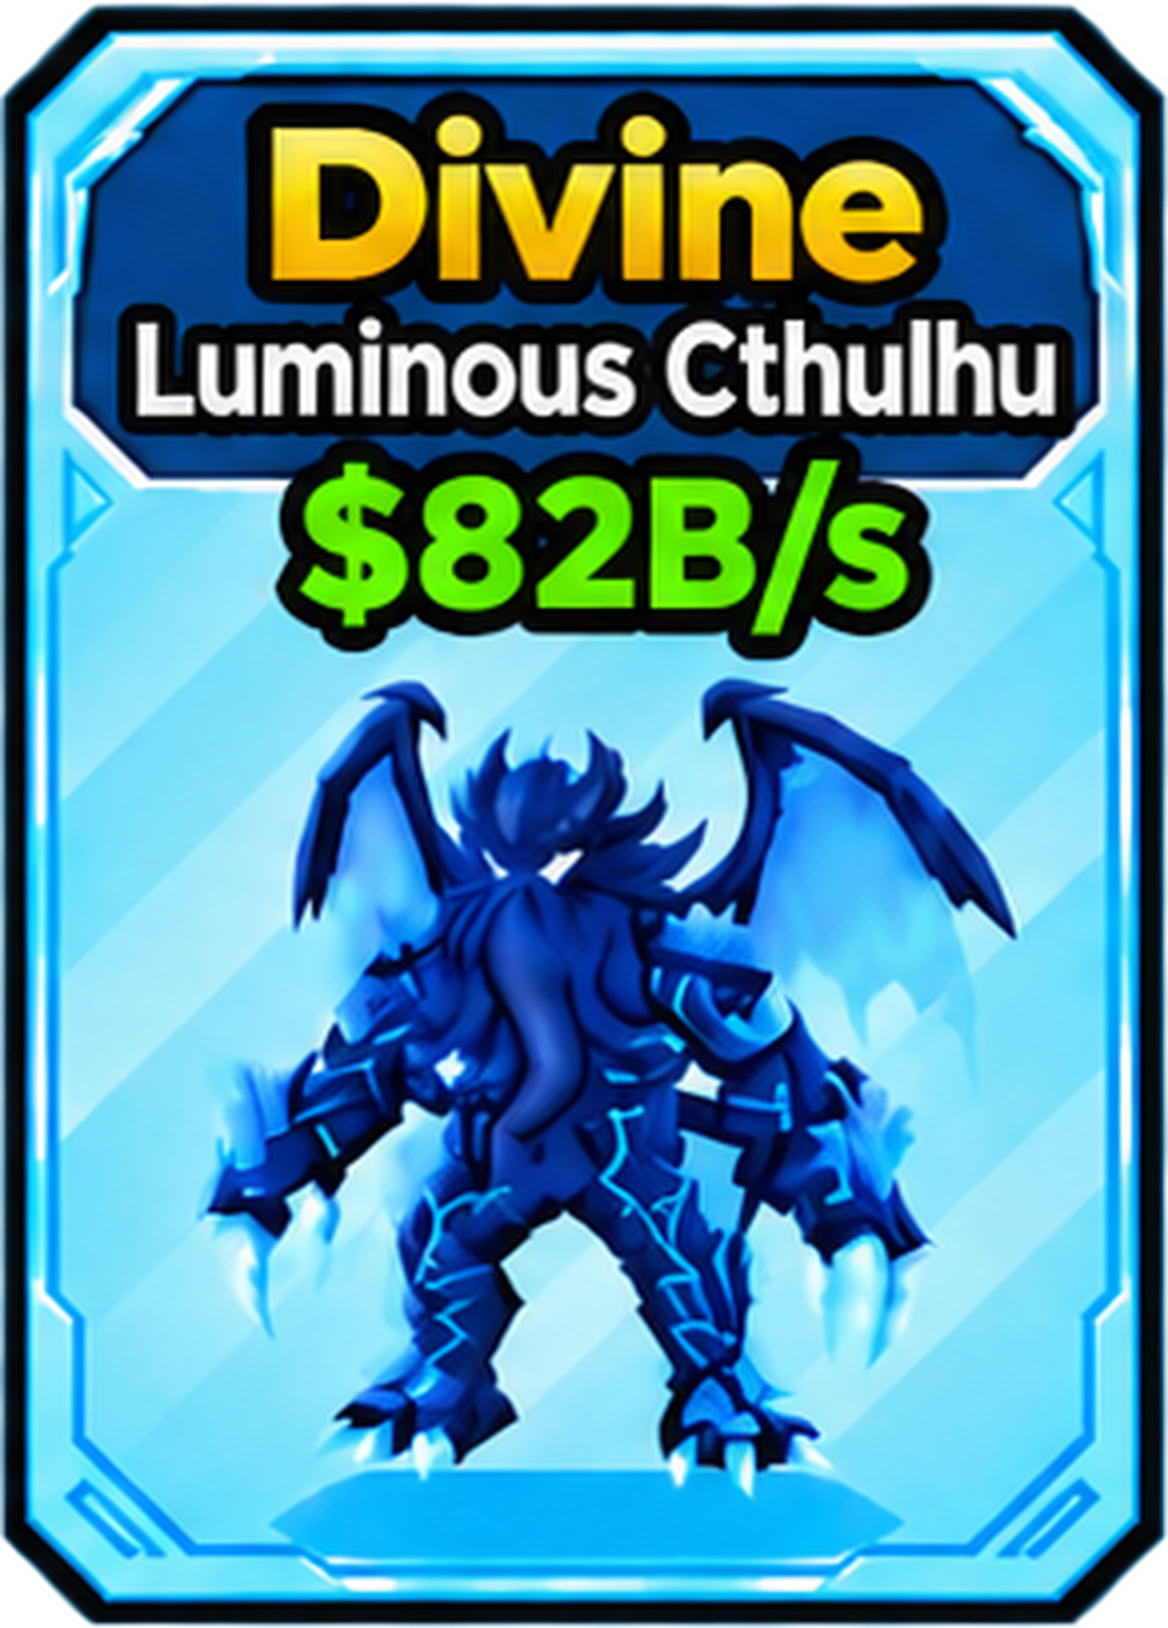
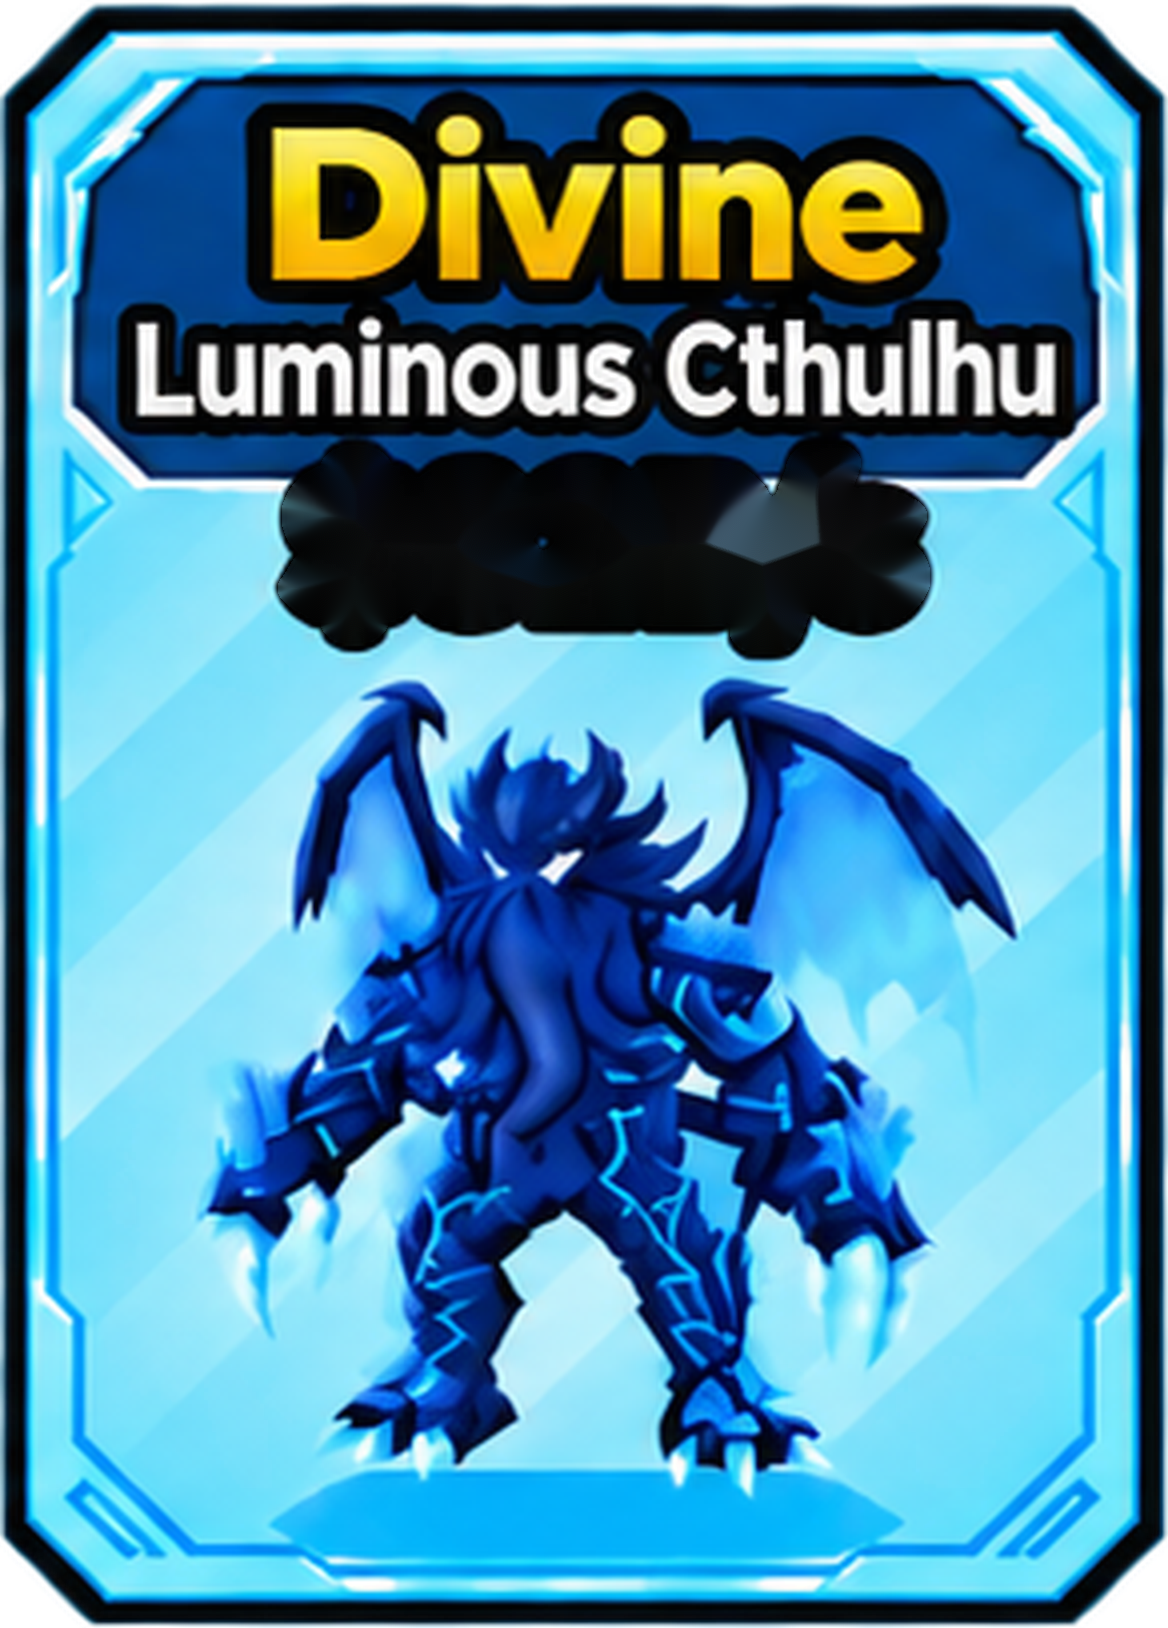
nnn

Changed region(s): [[0.2158, 0.2764, 0.8014, 0.3993]]

diff --git a/index.html b/index.html
@@ -4,7 +4,7 @@
 <meta charset="utf-8">
 <meta name="viewport" content="width=device-width,initial-scale=1">
 <meta http-equiv="Cache-Control" content="no-cache, no-store, must-revalidate">
-<title>Steal An Egg Overlay V5.22 TEXT ERASER</title>
+<title>Steal An Egg Overlay V5.23 TEXT ONLY PATCH</title>
 <style>
 *{box-sizing:border-box}
 html,body{margin:0;width:100%;height:100%;background:transparent!important;overflow:hidden}
@@ -146,36 +146,6 @@ body{font-family:Arial,Helvetica,sans-serif}
 }
 /* Chỉ che dòng tiền CŨ trên giao diện. File PNG gốc không bị chỉnh sửa. */
 .price-cover{display:none!important;}
-
-.price-eraser{
-  position:absolute;
-  left:2.1%;
-  right:2.1%;
-  top:24.7%;
-  height:14.6%;
-  z-index:30;
-  display:flex;
-  align-items:center;
-  justify-content:center;
-  overflow:visible;
-  color:#9FE8F7;
-  font-family:"Arial Black","DejaVu Sans",Arial,sans-serif;
-  font-weight:1000;
-  font-size:16.8cqw;
-  line-height:.94;
-  letter-spacing:-.055em;
-  white-space:nowrap;
-  -webkit-text-stroke:1.15cqw #9FE8F7;
-  paint-order:stroke fill;
-  text-shadow:
-    0 0 0 #9FE8F7,
-    .20cqw 0 0 #9FE8F7,
-    -.20cqw 0 0 #9FE8F7,
-    0 .20cqw 0 #9FE8F7,
-    0 -.20cqw 0 #9FE8F7;
-  pointer-events:none;
-}
-
 .price-text{
   position:absolute;
   left:2.5%;
@@ -283,8 +253,7 @@ body{font-family:Arial,Helvetica,sans-serif}
           <div class="pet-aura" style="--pet-mask:url('aura_masks/kitsune.png')"></div>
         </div>
         <div class="qty-badge" data-qty></div>
-        <div class="price-cover" aria-hidden="true"></div><div class="price-eraser">$123B/s</div>
-        <div class="price-text" data-price></div>
+        <div class="price-cover" aria-hidden="true"></div><div class="price-text" data-price></div>
       </div>
     
     </div>
@@ -297,8 +266,7 @@ body{font-family:Arial,Helvetica,sans-serif}
           <div class="pet-aura" style="--pet-mask:url('aura_masks/luminous_cthulhu.png')"></div>
         </div>
         <div class="qty-badge" data-qty></div>
-        <div class="price-cover" aria-hidden="true"></div><div class="price-eraser">$82B/s</div>
-        <div class="price-text" data-price></div>
+        <div class="price-cover" aria-hidden="true"></div><div class="price-text" data-price></div>
       </div>
     
     </div>
@@ -311,8 +279,7 @@ body{font-family:Arial,Helvetica,sans-serif}
           <div class="pet-aura" style="--pet-mask:url('aura_masks/archangel.png')"></div>
         </div>
         <div class="qty-badge" data-qty></div>
-        <div class="price-cover" aria-hidden="true"></div><div class="price-eraser">$63B/s</div>
-        <div class="price-text" data-price></div>
+        <div class="price-cover" aria-hidden="true"></div><div class="price-text" data-price></div>
       </div>
     
     </div>
@@ -325,8 +292,7 @@ body{font-family:Arial,Helvetica,sans-serif}
           <div class="pet-aura" style="--pet-mask:url('aura_masks/aetheron.png')"></div>
         </div>
         <div class="qty-badge" data-qty></div>
-        <div class="price-cover" aria-hidden="true"></div><div class="price-eraser">$87B/s</div>
-        <div class="price-text" data-price></div>
+        <div class="price-cover" aria-hidden="true"></div><div class="price-text" data-price></div>
       </div>
     
     </div>
@@ -339,8 +305,7 @@ body{font-family:Arial,Helvetica,sans-serif}
           <div class="pet-aura" style="--pet-mask:url('aura_masks/world_burner_cthulhu.png')"></div>
         </div>
         <div class="qty-badge" data-qty></div>
-        <div class="price-cover" aria-hidden="true"></div><div class="price-eraser">$63B/s</div>
-        <div class="price-text" data-price></div>
+        <div class="price-cover" aria-hidden="true"></div><div class="price-text" data-price></div>
       </div>
     
     </div>
@@ -353,8 +318,7 @@ body{font-family:Arial,Helvetica,sans-serif}
           <div class="pet-aura" style="--pet-mask:url('aura_masks/shattered_colossus.png')"></div>
         </div>
         <div class="qty-badge" data-qty></div>
-        <div class="price-cover" aria-hidden="true"></div><div class="price-eraser">$44B/s</div>
-        <div class="price-text" data-price></div>
+        <div class="price-cover" aria-hidden="true"></div><div class="price-text" data-price></div>
       </div>
     
     </div>
@@ -367,8 +331,7 @@ body{font-family:Arial,Helvetica,sans-serif}
           <div class="pet-aura" style="--pet-mask:url('aura_masks/nightflame.png')"></div>
         </div>
         <div class="qty-badge" data-qty></div>
-        <div class="price-cover" aria-hidden="true"></div><div class="price-eraser">$37B/s</div>
-        <div class="price-text" data-price></div>
+        <div class="price-cover" aria-hidden="true"></div><div class="price-text" data-price></div>
       </div>
     
     </div>
@@ -387,8 +350,7 @@ body{font-family:Arial,Helvetica,sans-serif}
           <div class="pet-aura" style="--pet-mask:url('aura_masks/cthulhu.png')"></div>
         </div>
         <div class="qty-badge" data-qty></div>
-        <div class="price-cover" aria-hidden="true"></div><div class="price-eraser">$37B/s</div>
-        <div class="price-text" data-price></div>
+        <div class="price-cover" aria-hidden="true"></div><div class="price-text" data-price></div>
       </div>
     
     </div>
@@ -401,8 +363,7 @@ body{font-family:Arial,Helvetica,sans-serif}
           <div class="pet-aura" style="--pet-mask:url('aura_masks/mecha_dreadscale.png')"></div>
         </div>
         <div class="qty-badge" data-qty></div>
-        <div class="price-cover" aria-hidden="true"></div><div class="price-eraser">$274B/s</div>
-        <div class="price-text" data-price></div>
+        <div class="price-cover" aria-hidden="true"></div><div class="price-text" data-price></div>
       </div>
     
     </div></div></div>

diff --git a/config.js b/config.js
@@ -1,1 +1,1 @@
-window.SAE_CONFIG={"version":"5.22-text-eraser","cards":[{"id":"kitsune","name":"Kitsune","base":1800000000,"box":[22,93,285,405],"dynamic":true},{"id":"luminous_cthulhu","name":"Luminous Cthulhu","base":13000000000,"box":[320,92,292,407],"dynamic":true},{"id":"archangel","name":"ArchAngel","base":5000000000,"box":[625,92,286,407],"dynamic":true},{"id":"aetheron","name":"Aetheron","base":6900000000,"box":[922,92,293,407],"dynamic":true},{"id":"world_burner_cthulhu","name":"World Burner Cthulhu","base":5000000000,"box":[1224,92,294,407],"dynamic":true},{"id":"shattered_colossus","name":"Shattered Colossus","base":3500000000,"box":[21,515,286,407],"dynamic":true},{"id":"nightflame","name":"Nightflame","base":3000000000,"box":[320,516,293,407],"dynamic":true},{"id":"luminous_eggs","name":"Luminous Eggs","base":null,"box":[625,516,285,406],"dynamic":false},{"id":"cthulhu","name":"Cthulhu","base":5000000000,"box":[923,516,292,406],"dynamic":true},{"id":"mecha_dreadscale","name":"Mecha Dreadscale","base":4000000000,"box":[1230,516,285,406],"dynamic":true}],"mutations":{"silver":{"label":"Silver","multiplier":1.2},"golden":{"label":"Golden","multiplier":2.5},"rainbow":{"label":"Rainbow","multiplier":3.5},"bloom":{"label":"Bloom","multiplier":1.25},"spirit_bloom":{"label":"Spirit Bloom","multiplier":2.5},"parasite":{"label":"Parasite","multiplier":3.0},"fractured":{"label":"Fractured","multiplier":2.75}},"backend":"https://steal-an-egg-overlay-backend.leducho1900.workers.dev","room":"sae_421045db4089999b697c52d464c44d3a"};
+window.SAE_CONFIG={"version":"5.23-text-only-patch","cards":[{"id":"kitsune","name":"Kitsune","base":1800000000,"box":[22,93,285,405],"dynamic":true},{"id":"luminous_cthulhu","name":"Luminous Cthulhu","base":13000000000,"box":[320,92,292,407],"dynamic":true},{"id":"archangel","name":"ArchAngel","base":5000000000,"box":[625,92,286,407],"dynamic":true},{"id":"aetheron","name":"Aetheron","base":6900000000,"box":[922,92,293,407],"dynamic":true},{"id":"world_burner_cthulhu","name":"World Burner Cthulhu","base":5000000000,"box":[1224,92,294,407],"dynamic":true},{"id":"shattered_colossus","name":"Shattered Colossus","base":3500000000,"box":[21,515,286,407],"dynamic":true},{"id":"nightflame","name":"Nightflame","base":3000000000,"box":[320,516,293,407],"dynamic":true},{"id":"luminous_eggs","name":"Luminous Eggs","base":null,"box":[625,516,285,406],"dynamic":false},{"id":"cthulhu","name":"Cthulhu","base":5000000000,"box":[923,516,292,406],"dynamic":true},{"id":"mecha_dreadscale","name":"Mecha Dreadscale","base":4000000000,"box":[1230,516,285,406],"dynamic":true}],"mutations":{"silver":{"label":"Silver","multiplier":1.2},"golden":{"label":"Golden","multiplier":2.5},"rainbow":{"label":"Rainbow","multiplier":3.5},"bloom":{"label":"Bloom","multiplier":1.25},"spirit_bloom":{"label":"Spirit Bloom","multiplier":2.5},"parasite":{"label":"Parasite","multiplier":3.0},"fractured":{"label":"Fractured","multiplier":2.75}},"backend":"https://steal-an-egg-overlay-backend.leducho1900.workers.dev","room":"sae_421045db4089999b697c52d464c44d3a"};

diff --git a/control.html b/control.html
@@ -3,7 +3,7 @@
 <head>
 <meta charset="utf-8"><meta name="viewport" content="width=device-width,initial-scale=1">
 <meta http-equiv="Cache-Control" content="no-cache, no-store, must-revalidate">
-<title>Steal An Egg Control V5.22</title>
+<title>Steal An Egg Control V5.23</title>
 <style>
 *{box-sizing:border-box}
 body{margin:0;background:#0b0d11;color:#fff;font-family:Arial,Helvetica,sans-serif}
@@ -49,7 +49,7 @@ button{border:0;border-radius:10px;padding:10px 13px;font-weight:900;cursor:poin
 @media(max-width:800px){.grid{grid-template-columns:1fr}.muts{grid-template-columns:repeat(2,1fr)}}
 </style>
 </head><body><main>
-<h1>🥚 Steal An Egg Control V5.22 — FIXED</h1>
+<h1>🥚 Steal An Egg Control V5.23 — FIXED</h1>
 <div class="sub"><span class="syncstatus" id="syncStatus">● Đang kiểm tra D1...</span> 
 Weight nhập <b>1–1000</b>. <b>Weight 1 = đúng tiền gốc</b>; tăng Weight thì tự nhân theo đường cong size.
 Mutation cộng bonus theo hệ số. Weight/Mutation tự tính tiền. Đồng bộ qua Cloudflare D1, không dùng Cache API. Weight/Mutation/Bật-Tắt/x2–x10 cập nhật chung một state; x1 không hiện nhãn, Luminous Eggs không có nhãn số lượng.
@@ -481,7 +481,7 @@ allOn.onclick=()=>{for(const c of CFG.cards)state.cards[c.id].enabled=true;saveA
 allOff.onclick=()=>{for(const c of CFG.cards)state.cards[c.id].enabled=false;saveAndPublish()};
 reset.onclick=()=>{for(const c of CFG.cards){state.cards[c.id].weight=1;state.cards[c.id].mutations=[];state.cards[c.id].qty=1}saveAndPublish()};
 copyLink.onclick=async()=>{
- const u=new URL("index.html?v=522",location.href).href;
+ const u=new URL("index.html?v=523",location.href).href;
  try{await navigator.clipboard.writeText(u);copyLink.textContent="ĐÃ COPY";setTimeout(()=>copyLink.textContent="Copy Overlay Link",1200)}
  catch(_e){prompt("Copy link Overlay:",u)}
 };
